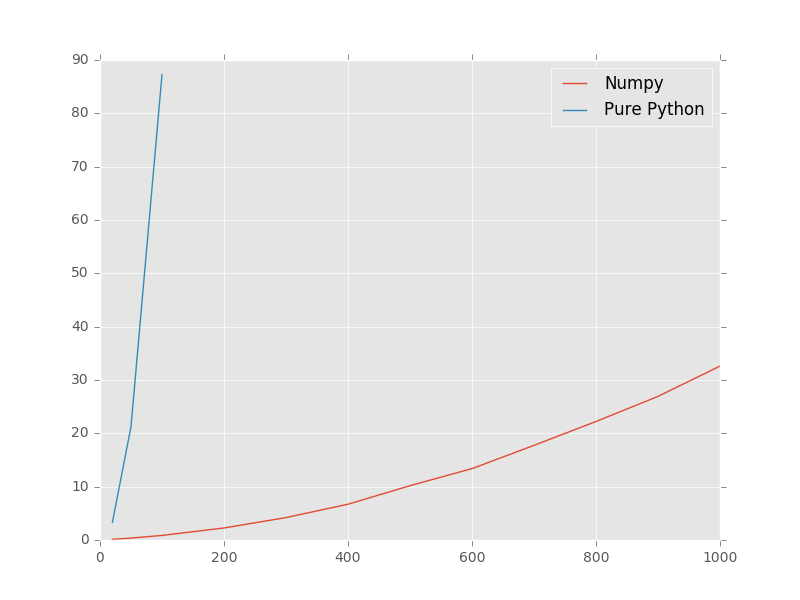
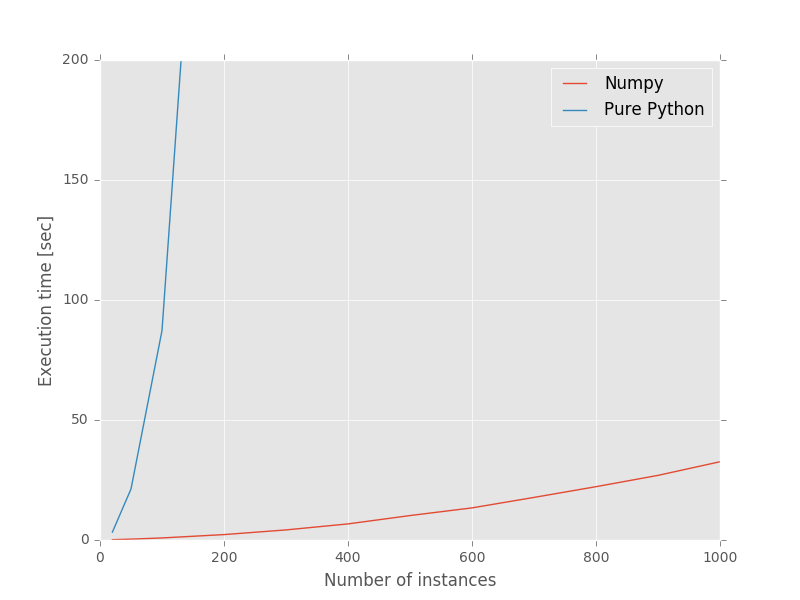
Minor updates.

diff --git a/README.md b/README.md
@@ -193,13 +193,17 @@ perf_results = {"Numpy": np.array([[20.0, 0.1287980079650879],
                 "Pure Python": np.array([[20, 3.3015658855438232],
                                          [50, 21.251996994018555],
                                          [100, 87.25664114952087],
-                                         [200, 453.45867109298706]])}
+                                         [200, 453.45867109298706],
+                                         [300, 1136.0742671489716]])}
 
 for label, results in perf_results.items():
     print label
     print results
     plt.plot(results[:, 0], results[:, 1], label=label)
 
+plt.xlabel("Number of instances")
+plt.ylabel("Execution time [sec]")
+plt.ylim([0, 200])
 plt.legend()
 plt.show()
 plt.close()
